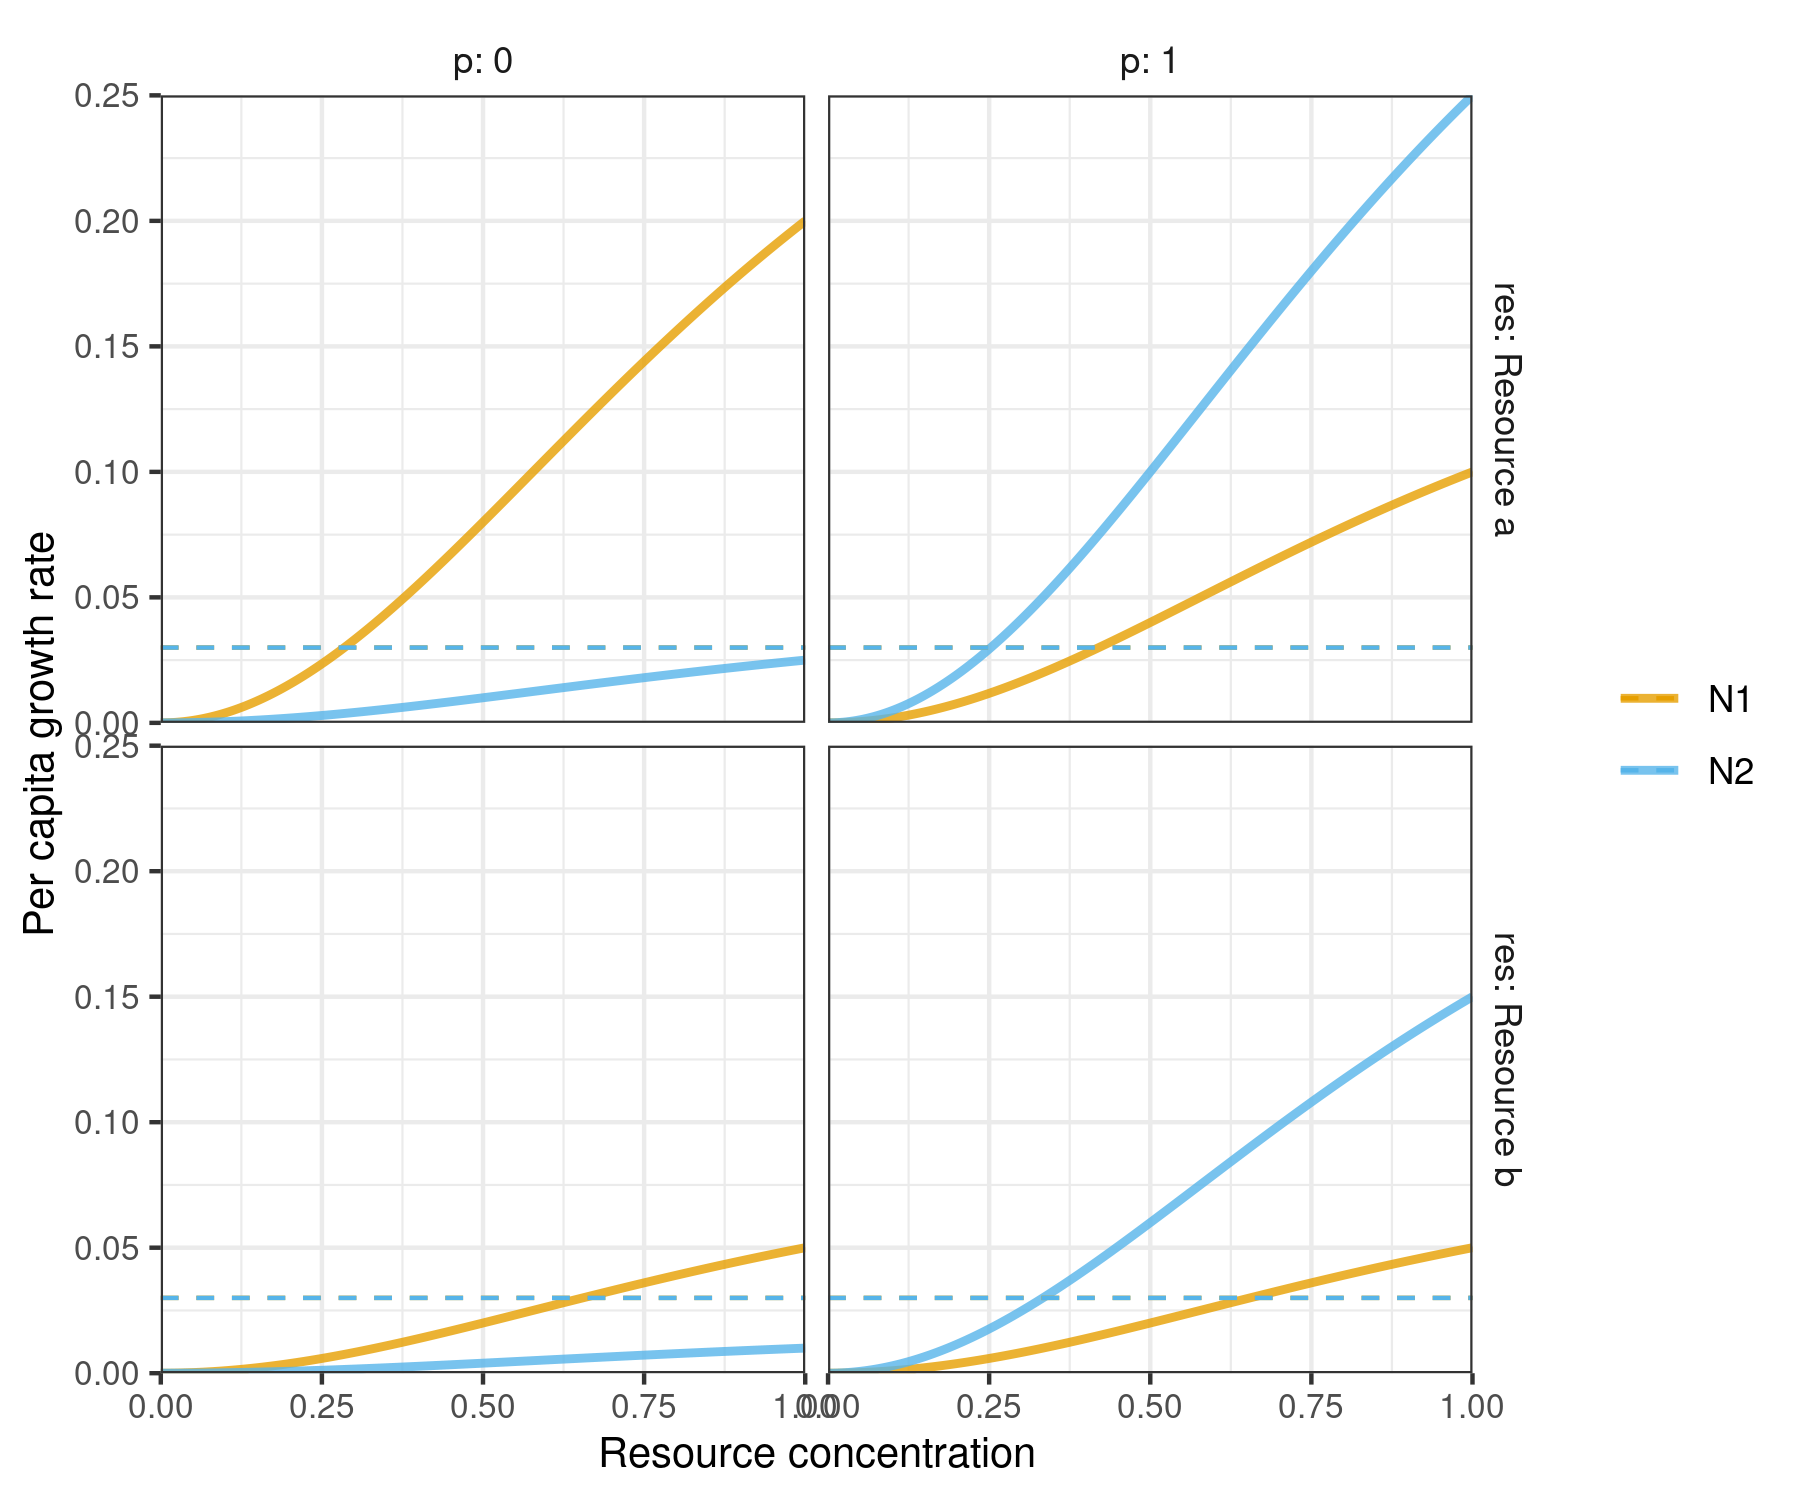
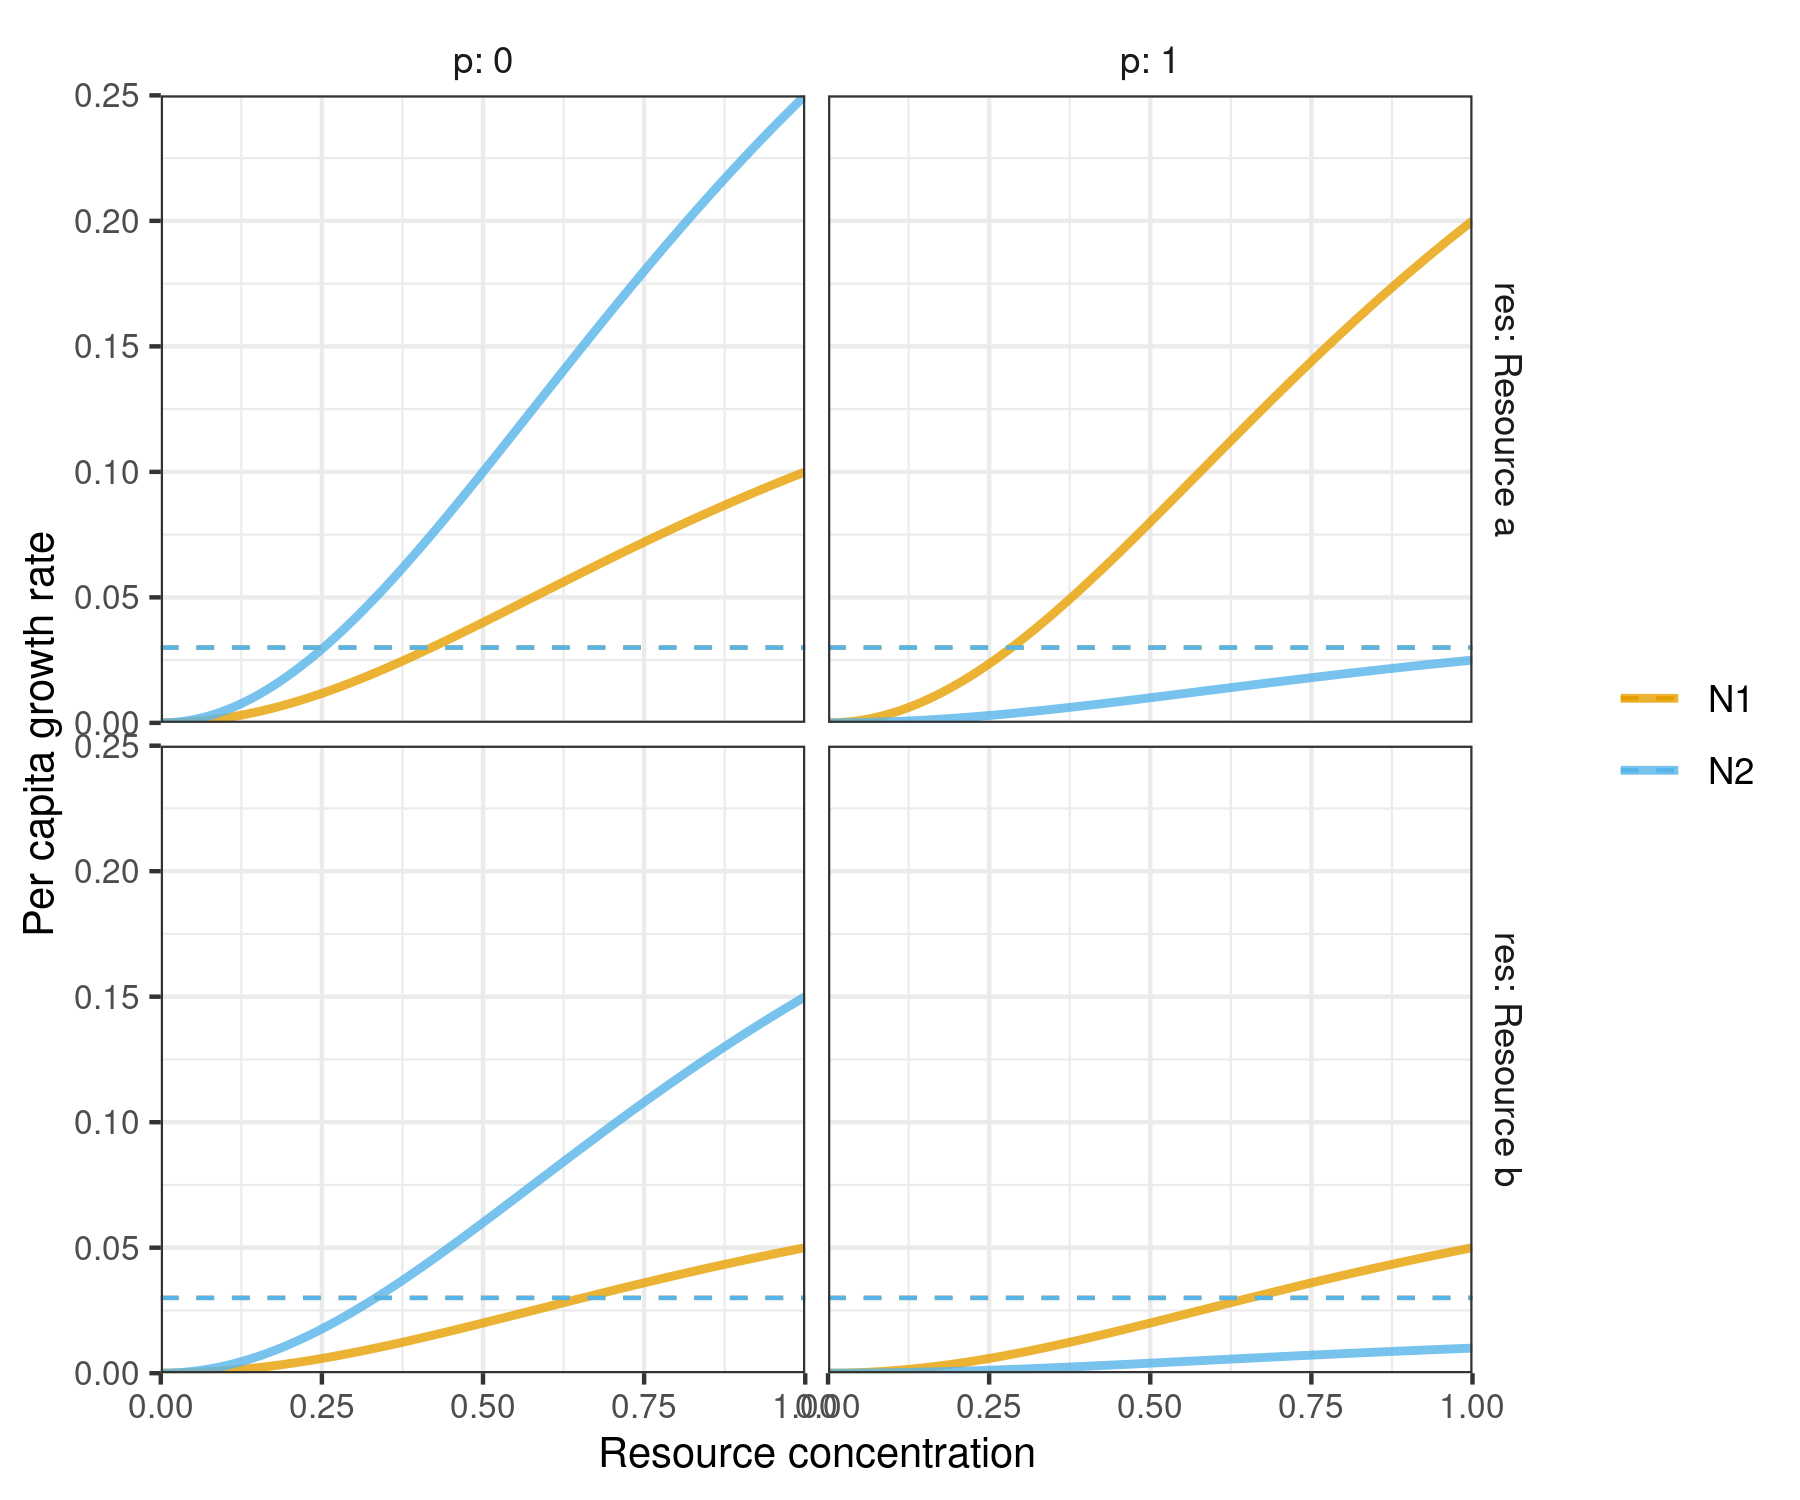
Rewrite example 2 in the README not to require an offset in the parameter wave.
By switching the order of the mumax definitions instead.

diff --git a/README.md b/README.md
@@ -130,12 +130,12 @@ pars <- spec_rescomp(
   funcresp = funcresp_hill(
     mumax = rescomp_coefs_lerp(
       crmatrix(
-        0.4, 0.1,
-        0.05, 0.02
-      ),
-      crmatrix(
         0.2, 0.1,
         0.5, 0.3
+      ),
+      crmatrix(
+        0.4, 0.1,
+        0.05, 0.02
       ),
       "p"
     ),
@@ -143,7 +143,7 @@ pars <- spec_rescomp(
     n = crmatrix(2)
   ),
   params = rescomp_param_list(
-    p = rescomp_param_square(period = 80, offset = 40)
+    p = rescomp_param_square(period = 80)
   ),
   ressupply = ressupply_constant(0),
   events = list(
